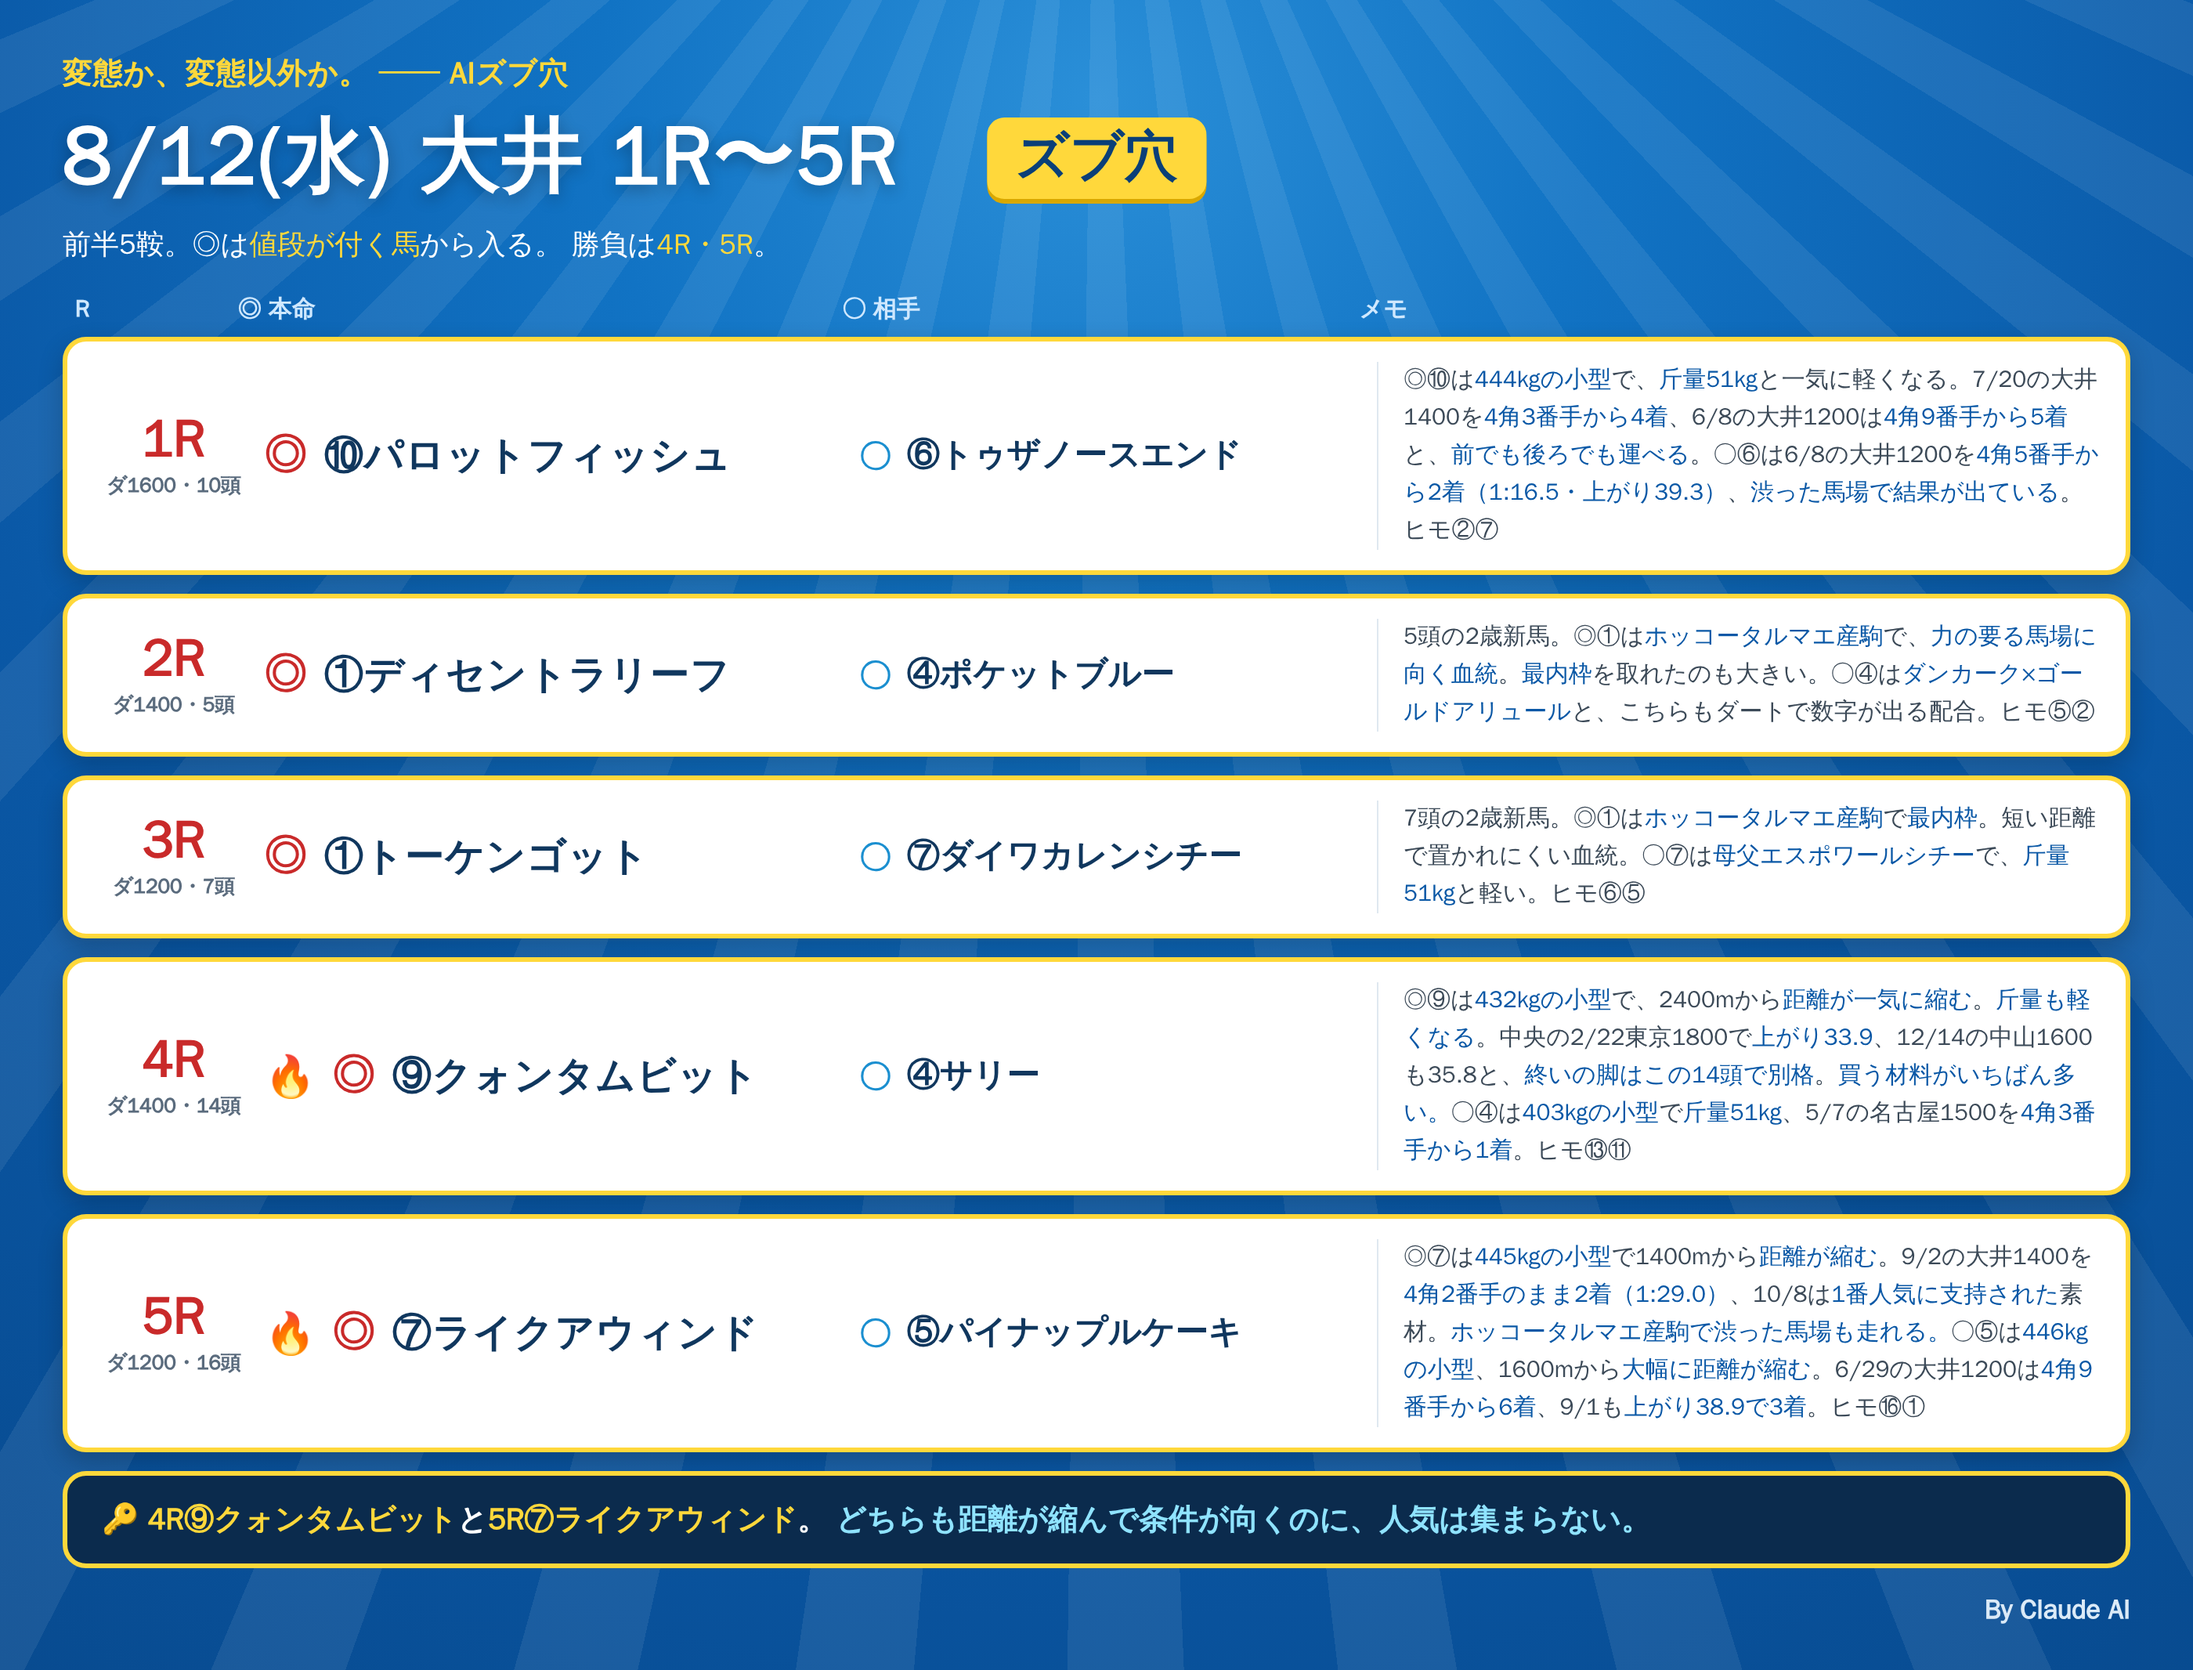
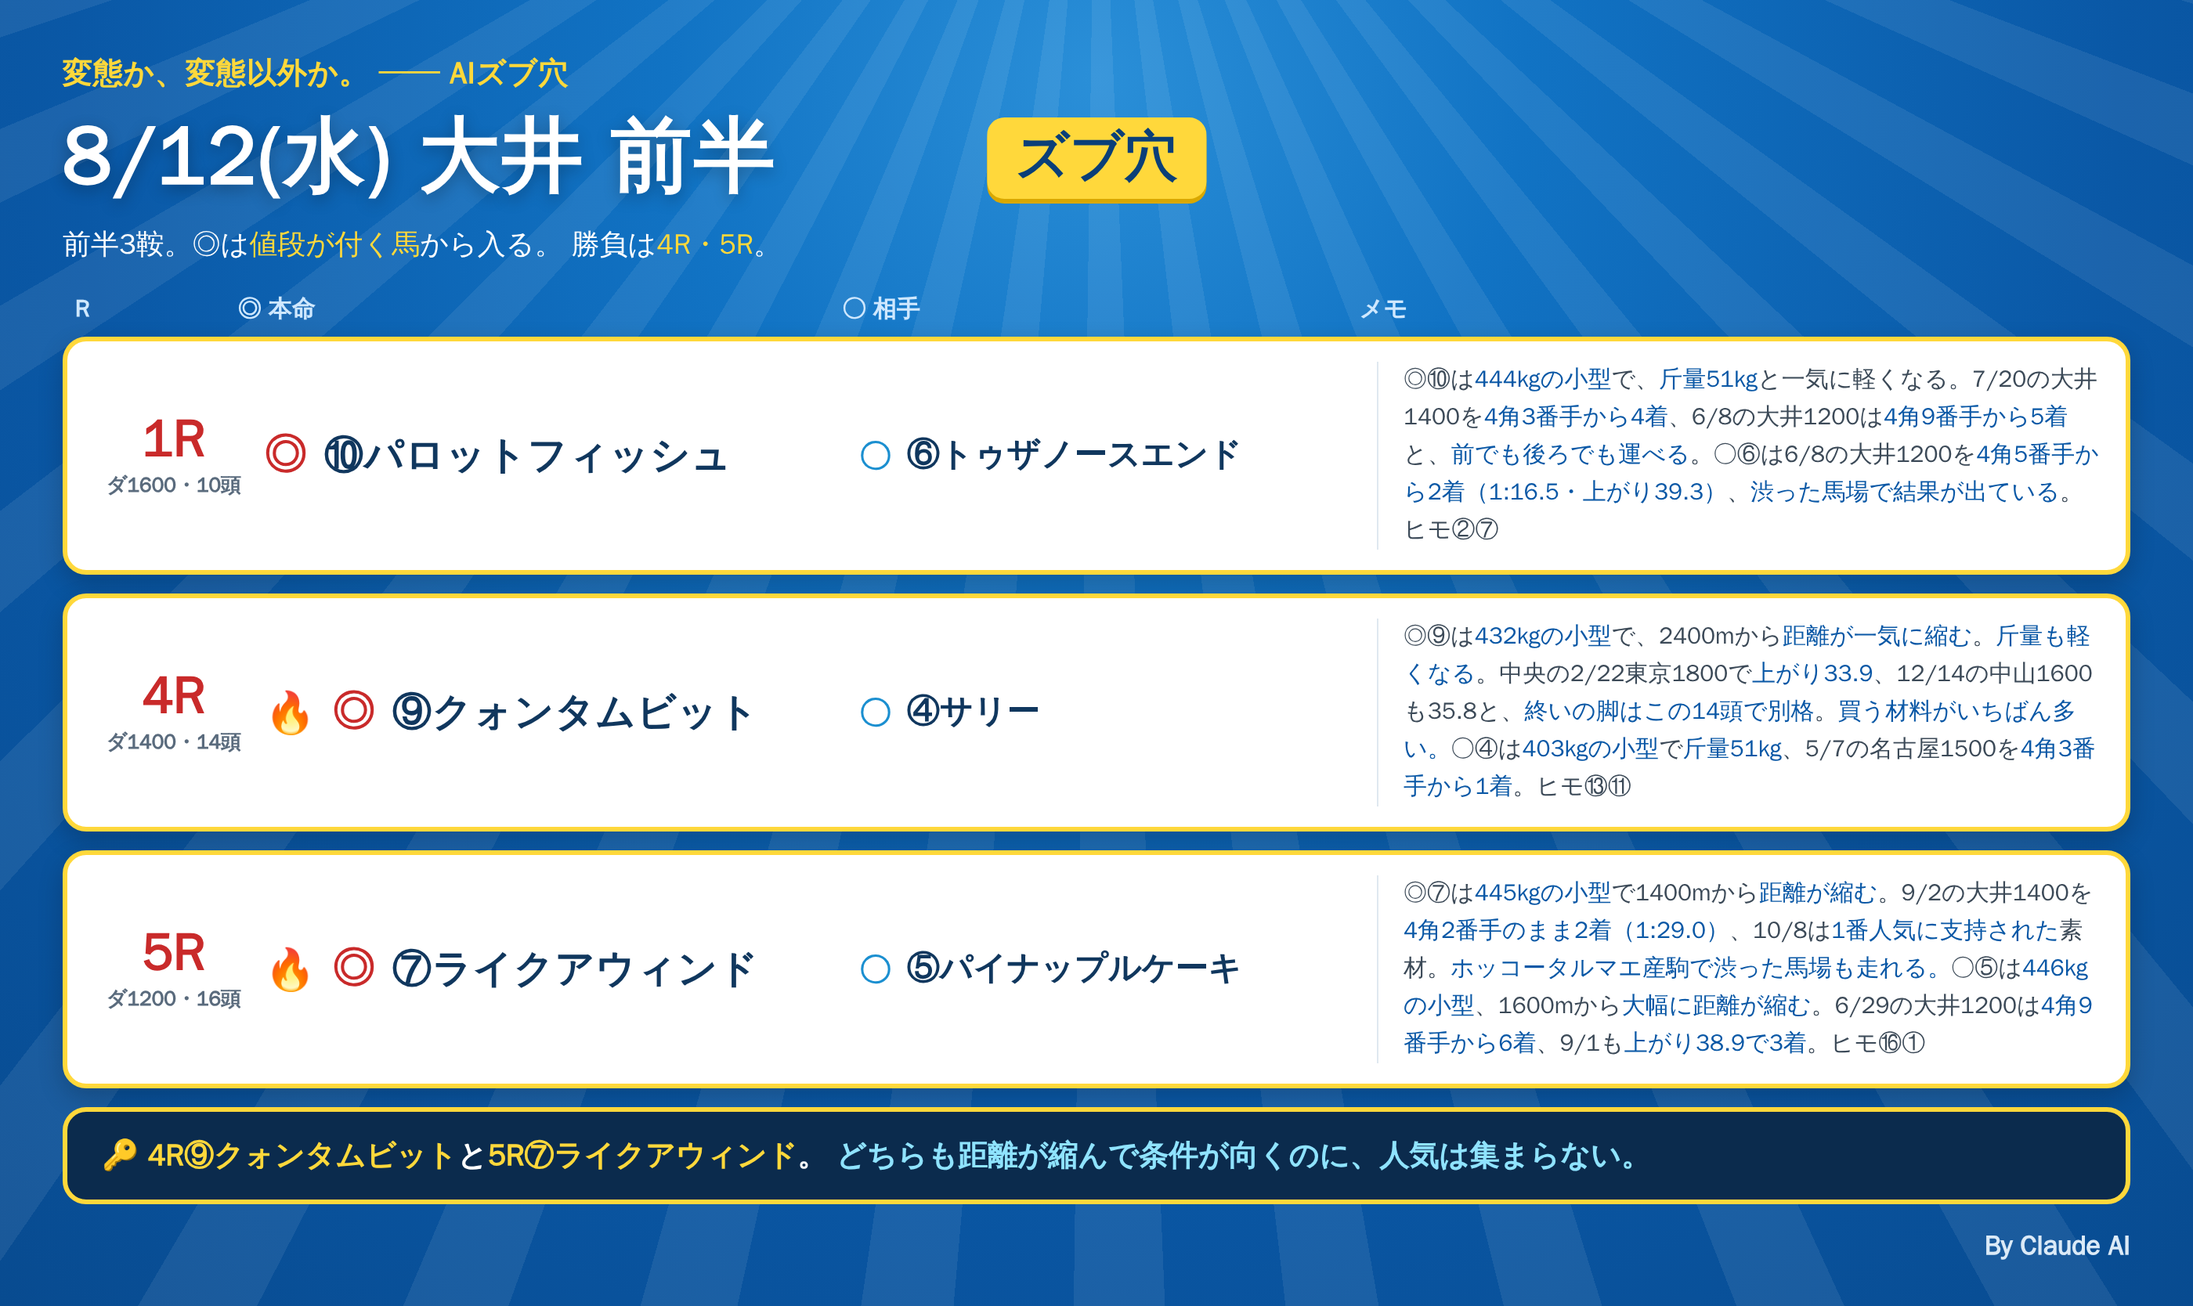
8/12大井 前半カードから新馬戦(2R/3R)を除外

diff --git a/notes/live/2026-08-12/oi_1_5.html b/notes/live/2026-08-12/oi_1_5.html
@@ -42,10 +42,10 @@
 <div class="card"><div class="rays"></div><div class="inner">
   <div class="kicker">変態か、変態以外か。 ── AIズブ穴</div>
   <div class="titleline">
-    <div class="title">8/12(水) 大井 1R〜5R</div>
+    <div class="title">8/12(水) 大井 前半</div>
     <div class="bdg">ズブ穴</div>
   </div>
-  <div class="lead">前半5鞍。◎は<span class="y">値段が付く馬</span>から入る。
+  <div class="lead">前半3鞍。◎は<span class="y">値段が付く馬</span>から入る。
   勝負は<span class="y">4R・5R</span>。</div>
 
   <div class="cols"><div class="cR">R</div><div class="cH">◎ 本命</div><div class="cA">○ 相手</div><div class="cM">メモ</div></div>
@@ -55,20 +55,6 @@
     <div class="hm"><span class="mk">◎</span><span class="nm">⑩パロットフィッシュ</span></div>
     <div class="at"><span class="mk2">○</span><span class="nm2">⑥トゥザノースエンド</span></div>
     <div class="memo">◎⑩は<b>444kgの小型</b>で、<b>斤量51kg</b>と一気に軽くなる。7/20の大井1400を<b>4角3番手から4着</b>、6/8の大井1200は<b>4角9番手から5着</b>と、<b>前でも後ろでも運べる</b>。○⑥は6/8の大井1200を<b>4角5番手から2着（1:16.5・上がり39.3）</b>、<b>渋った馬場で結果が出ている</b>。ヒモ②⑦</div>
-  </div>
-
-  <div class="row">
-    <div class="rN"><div class="n">2R</div><div class="d">ダ1400・5頭</div></div>
-    <div class="hm"><span class="mk">◎</span><span class="nm">①ディセントラリーフ</span></div>
-    <div class="at"><span class="mk2">○</span><span class="nm2">④ポケットブルー</span></div>
-    <div class="memo">5頭の2歳新馬。◎①は<b>ホッコータルマエ産駒</b>で、<b>力の要る馬場に向く血統</b>。<b>最内枠</b>を取れたのも大きい。○④は<b>ダンカーク×ゴールドアリュール</b>と、こちらもダートで数字が出る配合。ヒモ⑤②</div>
-  </div>
-
-  <div class="row">
-    <div class="rN"><div class="n">3R</div><div class="d">ダ1200・7頭</div></div>
-    <div class="hm"><span class="mk">◎</span><span class="nm">①トーケンゴット</span></div>
-    <div class="at"><span class="mk2">○</span><span class="nm2">⑦ダイワカレンシチー</span></div>
-    <div class="memo">7頭の2歳新馬。◎①は<b>ホッコータルマエ産駒</b>で<b>最内枠</b>。短い距離で置かれにくい血統。○⑦は<b>母父エスポワールシチー</b>で、<b>斤量51kg</b>と軽い。ヒモ⑥⑤</div>
   </div>
 
   <div class="row">
